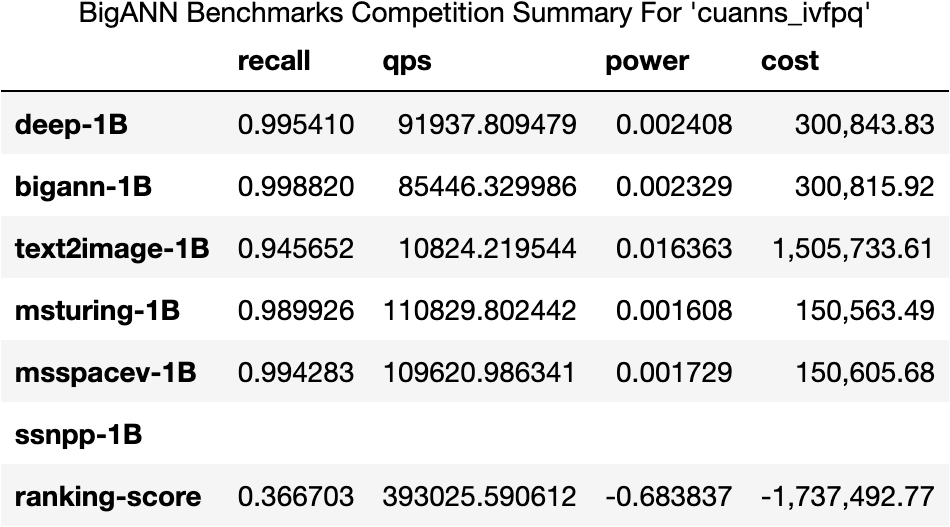
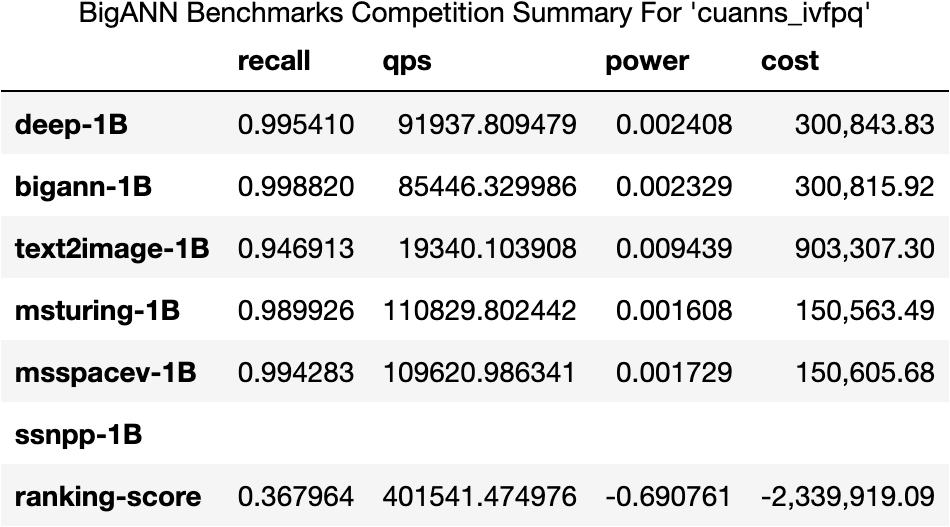
evaled last ivfpq

diff --git a/t3/run_eval.py b/t3/run_eval.py
@@ -110,7 +110,8 @@ SUBM_MAPPING            = \
         # lastlast - "results_dir":  "%s/nvidia/cuanns_ivfpq/results.updated_algos_ivfpq" % COMP_RESULTS_TOPLEVEL,
         # lastlast = "export_fname": "res.updated_algos_ivfpq.csv",
         # last "results_dir":  "%s/nvidia/ivfpq/results_nv_ivfpq_merge_all_and_1" % CACHE_RESULTS_TOPLEVEL,
-        "results_dir":  "%s/nvidia/ivfpq/results_nv_ivfpq_reduce_anomalies_config_stimes_all" % CACHE_RESULTS_TOPLEVEL,
+        # last "results_dir":  "%s/nvidia/ivfpq/results_nv_ivfpq_reduce_anomalies_config_stimes_all" % CACHE_RESULTS_TOPLEVEL,
+        "results_dir" : "%s/nvidia/ivfpq/results_nv_ivfpq_merge__reduce_anomalies_config_stimes_all__last_text2image_config" % CACHE_RESULTS_TOPLEVEL, 
         "export_fname": "public_w_cache_detect.csv",
         "cache_detect": True,
         "anomaly_explain": "https://github.com/harsha-simhadri/big-ann-benchmarks/blob/gw/T3/t3/cuanns_ivfpq/ANOMALIES.md",
@@ -544,8 +545,8 @@ if __name__ == "__main__":
 
     subms = [  "faiss_t3", "optanne_graphann", "gemini", "diskann", "cuanns_multigpu", "cuanns_ivfpq" ]
     #subms = [  "faiss_t3", "optanne_graphann", "gemini", "cuanns_multigpu", "cuanns_ivfpq" ]
-    #subms = [ "cuanns_ivfpq" ]
-    subms = [ "optanne_graphann" ]
+    subms = [ "cuanns_ivfpq" ]
+    #subms = [ "optanne_graphann" ]
 
     # export and/or produce summary and evals json  
     if RE_EXPORT or PROCESS_CSV: 

diff --git a/t3/LEADERBOARDS.md b/t3/LEADERBOARDS.md
@@ -17,9 +17,9 @@ Please note that all rankings are currently unofficial due to the following reas
 |[$MSD_SB]($MSD_RD)  |$MSD_TM    |$MSD_HW   |$MSD_RR  |$MSD_QR  |$MSD_PR  |$MSD_CR |$MSD_S   |$MSD_AC  |$MSD_EV  |$MSD_AL  |$MSD_AN |
 |[$BS_SB]($BS_RD)    |$BS_TM     |$BS_HW    |$BS_RR   |$BS_QR   |$BS_PR   |$BS_CR  |$BS_S    |$BS_AC   |$BS_EV   |$BS_AL   |$BS_AN  |
 |[$GEM_SB]($GEM_RD)  |$GEM_TM    |$GEM_HW   |$GEM_RR  |$GEM_QR  |$GEM_PR  |$GEM_CR |$GEM_S   |$GEM_AC  |$GEM_EV  |$GEM_AL  |$GEM_AN |
-|[$NV2_SB]($NV2_RD)  |$NV2_TM    |$NV2_HW   |$NV2_RR  |$NV2_QR  |$NV2_PR  |$NV2_CR |$NV2_S   |$NV2_AC  |$NV2_EV  |$NV2_AL  |$NV2_AN |
+|[cuanns_ivfpq](https://github.com/harsha-simhadri/big-ann-benchmarks/blob/gw/T3/t3/cuanns_ivfpq/README.md)  |NVidia    |NVidia GPU   |[1](#recall-or-ap-rankings)  |[1](#throughput-rankings)  |[1](#power-rankings)  |[1](#cost-rankings) |final   |[5/50](https://github.com/harsha-simhadri/big-ann-benchmarks/blob/gw/T3/t3/cuanns_ivfpq/ANOMALIES.md)  |George Williams  |[src](https://github.com/harsha-simhadri/big-ann-benchmarks/blob/gw/T3/benchmark/algorithms/cuanns_ivfpq.py)  |[nb](https://github.com/harsha-simhadri/big-ann-benchmarks/blob/gw/T3/t3/eval_2021/cuanns_ivfpq/EvalPublic.ipynb) |
 |[$NV_SB]($NV_RD)    |$NV_TM     |$NV_HW    |$NV_RR   |$NV_QR   |$NV_PR   |$NV_CR  |$NV_S    |$NV_AC   |$NV_EV   |$NV_AL   |$NV_AN  |
-|[optanne_graphann](https://github.com/harsha-simhadri/big-ann-benchmarks/blob/gw/T3/t3/optanne_graphann/README.md)|Intel   |Intel Optane  |[1](#recall-or-ap-rankings) |[1](#throughput-rankings) |[1](#power-rankings) |[1](#cost-rankings)|inprog  |[5/50](https://github.com/harsha-simhadri/big-ann-benchmarks/blob/gw/T3/t3/optanne_graphann/ANOMALIES.md) |George Williams |[src](https://github.com/harsha-simhadri/big-ann-benchmarks/blob/gw/T3/benchmark/algorithms/graphann.py) |[nb](https://github.com/harsha-simhadri/big-ann-benchmarks/blob/gw/T3/t3/eval_2021/optanne_graphann/EvalPublic.ipynb)|
+|[$OPT1_SB]($OPT1_RD)|$OPT1_TM   |$OPT1_HW  |$OPT1_RR |$OPT1_QR |$OPT1_PR |$OPT1_CR|$OPT1_S  |$OPT1_AC |$OPT1_EV |$OPT1_AL |$OPT1_AN|
 
 * Abbreviations used in chart:
   * *org* = submitted by challenge organizer, so subject to competition restrictions
@@ -36,7 +36,7 @@ Please note that all rankings are currently unofficial due to the following reas
 
 |Rank|Submission        |Team   |Hardware|Status |Score      |[Deep1B](#deep1B-recall-rankings)|[BigANN](#bigann-recall-rankings)|[MSTuring](#msturing-recall-rankings)|[MSSpace](#msspace-recall-rankings)|[Text2Image](#text2image-recall-rankings)|[FBSSNet](#fbsimsearchnet-ap-rankings)|
 |----|------------------|-------|--------|-------|-----------|------|------|--------|-------|----------|-------|
-|   1|[optanne_graphann](https://github.com/harsha-simhadri/big-ann-benchmarks/blob/gw/T3/t3/optanne_graphann/README.md)|Intel|Intel Optane |inprog|**0.409**|[0.99882](https://github.com/harsha-simhadri/big-ann-benchmarks/blob/gw/T3/t3/eval_2021/optanne_graphann/deep-1B_recall.png) |[0.99978](https://github.com/harsha-simhadri/big-ann-benchmarks/blob/gw/T3/t3/eval_2021/optanne_graphann/bigann-1B_recall.png) |[0.99568](https://github.com/harsha-simhadri/big-ann-benchmarks/blob/gw/T3/t3/eval_2021/optanne_graphann/msturing-1B_recall.png)   |[0.99835](https://github.com/harsha-simhadri/big-ann-benchmarks/blob/gw/T3/t3/eval_2021/optanne_graphann/msspacev-1B_recall.png)  |[0.97340](https://github.com/harsha-simhadri/big-ann-benchmarks/blob/gw/T3/t3/eval_2021/optanne_graphann/text2image-1B_recall.png)     |-  |
+|   1|[cuanns_ivfpq](https://github.com/harsha-simhadri/big-ann-benchmarks/blob/gw/T3/t3/cuanns_ivfpq/README.md)|NVidia|NVidia GPU |final|**0.368**|[0.99541](https://github.com/harsha-simhadri/big-ann-benchmarks/blob/gw/T3/t3/eval_2021/cuanns_ivfpq/deep-1B_recall.png) |[0.99882](https://github.com/harsha-simhadri/big-ann-benchmarks/blob/gw/T3/t3/eval_2021/cuanns_ivfpq/bigann-1B_recall.png) |[0.98993](https://github.com/harsha-simhadri/big-ann-benchmarks/blob/gw/T3/t3/eval_2021/cuanns_ivfpq/msturing-1B_recall.png)   |[0.99428](https://github.com/harsha-simhadri/big-ann-benchmarks/blob/gw/T3/t3/eval_2021/cuanns_ivfpq/msspacev-1B_recall.png)  |[0.94691](https://github.com/harsha-simhadri/big-ann-benchmarks/blob/gw/T3/t3/eval_2021/cuanns_ivfpq/text2image-1B_recall.png)     |-  |
 |   2|[-](-)|-|- |-|**-**|- |- |-   |-  |-     |-  |
 |   3|[-](-)|-|- |-|**-**|- |- |-   |-  |-     |-  |
 |   4|[-](-)|-|- |-|**-**|- |- |-   |-  |-     |-  |
@@ -54,7 +54,7 @@ Please note that all rankings are currently unofficial due to the following reas
 
 |Rank|Submission        |Team   |Hardware|Status |Score      |[Deep1B](#deep1B-throughput-rankings)|[BigANN](#bigann-throughput-rankings)|[MSTuring](#msturing-throughput-rankings)|[MSSpace](#msspace-throughput-rankings)|[Text2Image](#text2image-throughput-rankings)|[FBSSNet](#fbsimsearchnet-throughput-rankings)|
 |----|------------------|-------|--------|-------|-----------|------|------|--------|-------|----------|--------------|
-|   1|[optanne_graphann](https://github.com/harsha-simhadri/big-ann-benchmarks/blob/gw/T3/t3/optanne_graphann/README.md)|Intel|Intel Optane |inprog|**853256.879**|[196,545.658](https://github.com/harsha-simhadri/big-ann-benchmarks/blob/gw/T3/t3/eval_2021/optanne_graphann/deep-1B_throughput.png) |[335,990.515](https://github.com/harsha-simhadri/big-ann-benchmarks/blob/gw/T3/t3/eval_2021/optanne_graphann/bigann-1B_throughput.png) |[161,463.273](https://github.com/harsha-simhadri/big-ann-benchmarks/blob/gw/T3/t3/eval_2021/optanne_graphann/msturing-1B_throughput.png)   |[157,828.471](https://github.com/harsha-simhadri/big-ann-benchmarks/blob/gw/T3/t3/eval_2021/optanne_graphann/msspacev-1B_throughput.png)  |[17,062.518](https://github.com/harsha-simhadri/big-ann-benchmarks/blob/gw/T3/t3/eval_2021/optanne_graphann/text2image-1B_throughput.png)     |-         |
+|   1|[cuanns_ivfpq](https://github.com/harsha-simhadri/big-ann-benchmarks/blob/gw/T3/t3/cuanns_ivfpq/README.md)|NVidia|NVidia GPU |final|**401541.475**|[91,937.809](https://github.com/harsha-simhadri/big-ann-benchmarks/blob/gw/T3/t3/eval_2021/cuanns_ivfpq/deep-1B_throughput.png) |[85,446.330](https://github.com/harsha-simhadri/big-ann-benchmarks/blob/gw/T3/t3/eval_2021/cuanns_ivfpq/bigann-1B_throughput.png) |[110,829.802](https://github.com/harsha-simhadri/big-ann-benchmarks/blob/gw/T3/t3/eval_2021/cuanns_ivfpq/msturing-1B_throughput.png)   |[109,620.986](https://github.com/harsha-simhadri/big-ann-benchmarks/blob/gw/T3/t3/eval_2021/cuanns_ivfpq/msspacev-1B_throughput.png)  |[19,340.104](https://github.com/harsha-simhadri/big-ann-benchmarks/blob/gw/T3/t3/eval_2021/cuanns_ivfpq/text2image-1B_throughput.png)     |-         |
 |   2|[-](-)|-|- |-|**-**|- |- |-   |-  |-     |-         | 
 |   3|[-](-)|-|- |-|**-**|- |- |-   |-  |-     |-         | 
 |   4|[-](-)|-|- |-|**-**|- |- |-   |-  |-     |-         | 
@@ -72,7 +72,7 @@ Please note that all rankings are currently unofficial due to the following reas
 
 |Rank|Submission        |Team   |Hardware|Status |Score      |[Deep1B](#deep1B-power-rankings)|[BigANN](#bigann-power-rankings)|[MSTuring](#msturing-power-rankings)|[MSSpace](#msspace-power-rankings)|[Text2Image](#text2image-power-rankings)|[FBSSNet](#fbsimsearchnet-power-rankings)|
 |----|------------------|-------|--------|-------|-----------|------|------|--------|-------|-----|-----|
-|   1|[optanne_graphann](https://github.com/harsha-simhadri/big-ann-benchmarks/blob/gw/T3/t3/optanne_graphann/README.md)|Intel|Intel Optane |inprog|**-0.648**|[0.0041](https://github.com/harsha-simhadri/big-ann-benchmarks/blob/gw/T3/t3/eval_2021/optanne_graphann/deep-1B_power.png) |[0.0022](https://github.com/harsha-simhadri/big-ann-benchmarks/blob/gw/T3/t3/eval_2021/optanne_graphann/bigann-1B_power.png) |[0.0048](https://github.com/harsha-simhadri/big-ann-benchmarks/blob/gw/T3/t3/eval_2021/optanne_graphann/msturing-1B_power.png)   |[0.0049](https://github.com/harsha-simhadri/big-ann-benchmarks/blob/gw/T3/t3/eval_2021/optanne_graphann/msspacev-1B_power.png)  |[0.0446](https://github.com/harsha-simhadri/big-ann-benchmarks/blob/gw/T3/t3/eval_2021/optanne_graphann/text2image-1B_power.png)|-|
+|   1|[cuanns_ivfpq](https://github.com/harsha-simhadri/big-ann-benchmarks/blob/gw/T3/t3/cuanns_ivfpq/README.md)|NVidia|NVidia GPU |final|**-0.691**|[0.0024](https://github.com/harsha-simhadri/big-ann-benchmarks/blob/gw/T3/t3/eval_2021/cuanns_ivfpq/deep-1B_power.png) |[0.0023](https://github.com/harsha-simhadri/big-ann-benchmarks/blob/gw/T3/t3/eval_2021/cuanns_ivfpq/bigann-1B_power.png) |[0.0016](https://github.com/harsha-simhadri/big-ann-benchmarks/blob/gw/T3/t3/eval_2021/cuanns_ivfpq/msturing-1B_power.png)   |[0.0017](https://github.com/harsha-simhadri/big-ann-benchmarks/blob/gw/T3/t3/eval_2021/cuanns_ivfpq/msspacev-1B_power.png)  |[0.0094](https://github.com/harsha-simhadri/big-ann-benchmarks/blob/gw/T3/t3/eval_2021/cuanns_ivfpq/text2image-1B_power.png)|-|
 |   2|[-](-)|-|- |-|**-**|- |- |-   |-  |-|-| 
 |   3|[-](-)|-|- |-|**-**|- |- |-   |-  |-|-| 
 |   4|[-](-)|-|- |-|**-**|- |- |-   |-  |-|-| 
@@ -90,7 +90,7 @@ Please note that all rankings are currently unofficial due to the following reas
 
 |Rank|Submission        |Team   |Hardware|Status |Score      |[Deep1B](#deep1B-cost-rankings)|[BigANN](#bigann-cost-rankings)|[MSTuring](#msturing-cost-rankings)|[MSSpace](#msspace-cost-rankings)|[Text2Image](#text2image-cost-rankings)|[FBSSNet](#fbsimsearchnet-cost-rankings)|
 |----|------------------|-------|--------|-------|-----------|------|------|--------|-------|----------|--------------|
-|   1|[optanne_graphann](https://github.com/harsha-simhadri/big-ann-benchmarks/blob/gw/T3/t3/optanne_graphann/README.md)|Intel|Intel Optane |inprog|**$-3,978,198.83**|$16,086.82 |$15,439.92 |$16,347.45   |$16,382.81  |$103,599.49     |-         |
+|   1|[cuanns_ivfpq](https://github.com/harsha-simhadri/big-ann-benchmarks/blob/gw/T3/t3/cuanns_ivfpq/README.md)|NVidia|NVidia GPU |final|**$-2,339,919.09**|$300,843.83 |$300,815.92 |$150,563.49   |$150,605.68  |$903,307.30     |-         |
 |   2|[-](-)|-|- |-|**-**|- |- |-   |-  |-     |-         |
 |   3|[-](-)|-|- |-|**-**|- |- |-   |-  |-     |-         |
 |   4|[-](-)|-|- |-|**-**|- |- |-   |-  |-     |-         |
@@ -112,7 +112,7 @@ Please note that all rankings are currently unofficial due to the following reas
 
 |Rank|Submission                                             |Team                          |Hardware               |Status  |R@10       |
 |----|-------------------------------------------------------|------------------------------|-----------------------|--------|-----------|
-|   1|[optanne_graphann](https://github.com/harsha-simhadri/big-ann-benchmarks/blob/gw/T3/t3/optanne_graphann/README.md)                                   |Intel                      |Intel Optane               |inprog|**[0.99882](https://github.com/harsha-simhadri/big-ann-benchmarks/blob/gw/T3/t3/eval_2021/optanne_graphann/deep-1B_recall.png)**|       
+|   1|[cuanns_ivfpq](https://github.com/harsha-simhadri/big-ann-benchmarks/blob/gw/T3/t3/cuanns_ivfpq/README.md)                                   |NVidia                      |NVidia GPU               |final|**[0.99541](https://github.com/harsha-simhadri/big-ann-benchmarks/blob/gw/T3/t3/eval_2021/cuanns_ivfpq/deep-1B_recall.png)**|       
 |   2|[-](-)                                   |-                      |-               |-|**-**|       
 |   3|[-](-)                                   |-                      |-               |-|**-**|       
 |   4|[-](-)                                   |-                      |-               |-|**-**|       
@@ -129,7 +129,7 @@ Please note that all rankings are currently unofficial due to the following reas
 
 |Rank|Submission                                             |Team                          |Hardware               |Status  |Q/S        |
 |----|-------------------------------------------------------|------------------------------|-----------------------|--------|-----------|
-|   1|[optanne_graphann](https://github.com/harsha-simhadri/big-ann-benchmarks/blob/gw/T3/t3/optanne_graphann/README.md)                                   |Intel                      |Intel Optane               |inprog|**[196,545.658](https://github.com/harsha-simhadri/big-ann-benchmarks/blob/gw/T3/t3/eval_2021/optanne_graphann/deep-1B_throughput.png)**|
+|   1|[cuanns_ivfpq](https://github.com/harsha-simhadri/big-ann-benchmarks/blob/gw/T3/t3/cuanns_ivfpq/README.md)                                   |NVidia                      |NVidia GPU               |final|**[91,937.809](https://github.com/harsha-simhadri/big-ann-benchmarks/blob/gw/T3/t3/eval_2021/cuanns_ivfpq/deep-1B_throughput.png)**|
 |   2|[-](-)                                   |-                      |-               |-|**-**|
 |   3|[-](-)                                   |-                      |-               |-|**-**|
 |   4|[-](-)                                   |-                      |-               |-|**-**|
@@ -146,7 +146,7 @@ Please note that all rankings are currently unofficial due to the following reas
 
 |Rank|Submission                                             |Team                          |Hardware               |Status  |W*S/Q      |
 |----|-------------------------------------------------------|------------------------------|-----------------------|--------|-----------|
-|   1|[optanne_graphann](https://github.com/harsha-simhadri/big-ann-benchmarks/blob/gw/T3/t3/optanne_graphann/README.md)                                   |Intel                      |Intel Optane               |inprog|**[0.0041](https://github.com/harsha-simhadri/big-ann-benchmarks/blob/gw/T3/t3/eval_2021/optanne_graphann/deep-1B_power.png)**|
+|   1|[cuanns_ivfpq](https://github.com/harsha-simhadri/big-ann-benchmarks/blob/gw/T3/t3/cuanns_ivfpq/README.md)                                   |NVidia                      |NVidia GPU               |final|**[0.0024](https://github.com/harsha-simhadri/big-ann-benchmarks/blob/gw/T3/t3/eval_2021/cuanns_ivfpq/deep-1B_power.png)**|
 |   2|[-](-)                                   |-                      |-               |-|**-**|
 |   3|[-](-)                                   |-                      |-               |-|**-**|
 |   4|[-](-)                                   |-                      |-               |-|**-**|
@@ -163,7 +163,7 @@ Please note that all rankings are currently unofficial due to the following reas
 
 |Rank|Submission          |Team     |Hardware               |Status  |Cost         |capex   |opex    |unit cost|units@100K qps|KwH*4yrs |
 |----|--------------------|---------|-----------------------|--------|-------------|--------|--------|---------|--------------|---------|
-|   1|[optanne_graphann](https://github.com/harsha-simhadri/big-ann-benchmarks/blob/gw/T3/t3/optanne_graphann/README.md)|Intel |Intel Optane               |inprog|**$16,086.82**  |$14,664.20|$1,422.62|$14,664.20 |1      |14,226.208|
+|   1|[cuanns_ivfpq](https://github.com/harsha-simhadri/big-ann-benchmarks/blob/gw/T3/t3/cuanns_ivfpq/README.md)|NVidia |NVidia GPU               |final|**$300,843.83**  |$300,000.00|$843.83|$150,000.00 |2      |8,438.315|
 |   2|[-](-)|- |-               |-|**-**  |-|-|- |-      |-|
 |   3|[-](-)|- |-               |-|**-**  |-|-|- |-      |-|
 |   4|[-](-)|- |-               |-|**-**  |-|-|- |-      |-|
@@ -188,7 +188,7 @@ Please note that all rankings are currently unofficial due to the following reas
 
 |Rank|Submission                                             |Team                          |Hardware               |Status  |R@10         |
 |----|-------------------------------------------------------|------------------------------|-----------------------|--------|-------------|
-|   1|[optanne_graphann](https://github.com/harsha-simhadri/big-ann-benchmarks/blob/gw/T3/t3/optanne_graphann/README.md)                                   |Intel                      |Intel Optane               |inprog|**[0.99978](https://github.com/harsha-simhadri/big-ann-benchmarks/blob/gw/T3/t3/eval_2021/optanne_graphann/bigann-1B_recall.png)**  |
+|   1|[cuanns_ivfpq](https://github.com/harsha-simhadri/big-ann-benchmarks/blob/gw/T3/t3/cuanns_ivfpq/README.md)                                   |NVidia                      |NVidia GPU               |final|**[0.99882](https://github.com/harsha-simhadri/big-ann-benchmarks/blob/gw/T3/t3/eval_2021/cuanns_ivfpq/bigann-1B_recall.png)**  |
 |   2|[-](-)                                   |-                      |-               |-|**-**  |
 |   3|[-](-)                                   |-                      |-               |-|**-**  |
 |   4|[-](-)                                   |-                      |-               |-|**-**  |
@@ -205,7 +205,7 @@ Please note that all rankings are currently unofficial due to the following reas
 
 |Rank|Submission                                             |Team                          |Hardware               |Status  |Q/S          |
 |----|-------------------------------------------------------|------------------------------|-----------------------|--------|-------------|
-|   1|[optanne_graphann](https://github.com/harsha-simhadri/big-ann-benchmarks/blob/gw/T3/t3/optanne_graphann/README.md)                                   |Intel                      |Intel Optane               |inprog|**[335,990.515](https://github.com/harsha-simhadri/big-ann-benchmarks/blob/gw/T3/t3/eval_2021/optanne_graphann/bigann-1B_throughput.png)**  |
+|   1|[cuanns_ivfpq](https://github.com/harsha-simhadri/big-ann-benchmarks/blob/gw/T3/t3/cuanns_ivfpq/README.md)                                   |NVidia                      |NVidia GPU               |final|**[85,446.330](https://github.com/harsha-simhadri/big-ann-benchmarks/blob/gw/T3/t3/eval_2021/cuanns_ivfpq/bigann-1B_throughput.png)**  |
 |   2|[-](-)                                   |-                      |-               |-|**-**  |
 |   3|[-](-)                                   |-                      |-               |-|**-**  |
 |   4|[-](-)                                   |-                      |-               |-|**-**  |
@@ -222,7 +222,7 @@ Please note that all rankings are currently unofficial due to the following reas
 
 |Rank|Submission                                             |Team                          |Hardware               |Status  |W*S/Q      |
 |----|-------------------------------------------------------|------------------------------|-----------------------|--------|-----------|
-|   1|[optanne_graphann](https://github.com/harsha-simhadri/big-ann-benchmarks/blob/gw/T3/t3/optanne_graphann/README.md)                                   |Intel                      |Intel Optane               |inprog|**[0.0022](https://github.com/harsha-simhadri/big-ann-benchmarks/blob/gw/T3/t3/eval_2021/optanne_graphann/bigann-1B_power.png)**|       
+|   1|[cuanns_ivfpq](https://github.com/harsha-simhadri/big-ann-benchmarks/blob/gw/T3/t3/cuanns_ivfpq/README.md)                                   |NVidia                      |NVidia GPU               |final|**[0.0023](https://github.com/harsha-simhadri/big-ann-benchmarks/blob/gw/T3/t3/eval_2021/cuanns_ivfpq/bigann-1B_power.png)**|       
 |   2|[-](-)                                   |-                      |-               |-|**-**|       
 |   3|[-](-)                                   |-                      |-               |-|**-**|      
 |   4|[-](-)                                   |-                      |-               |-|**-**|      
@@ -239,7 +239,7 @@ Please note that all rankings are currently unofficial due to the following reas
 
 |Rank|Submission          |Team                          |Hardware            |Status  |Cost          |capex   |opex    |unit cost|units@100K qps|KwH*4yrs |
 |----|--------------------|------------------------------|--------------------|--------|--------------|--------|--------|---------|--------------|---------|
-|   1|[optanne_graphann](https://github.com/harsha-simhadri/big-ann-benchmarks/blob/gw/T3/t3/optanne_graphann/README.md)|Intel                      |Intel Optane            |inprog|**$15,439.92**   |$14,664.20|$775.72|$14,664.20 |1      |7,757.221|
+|   1|[cuanns_ivfpq](https://github.com/harsha-simhadri/big-ann-benchmarks/blob/gw/T3/t3/cuanns_ivfpq/README.md)|NVidia                      |NVidia GPU            |final|**$300,815.92**   |$300,000.00|$815.92|$150,000.00 |2      |8,159.226|
 |   2|[-](-)|-                      |-            |-|**-**   |-|-|- |-      |-|      
 |   3|[-](-)|-                      |-            |-|**-**   |-|-|- |-      |-|  
 |   4|[-](-)|-                      |-            |-|**-**   |-|-|- |-      |-|  
@@ -264,7 +264,7 @@ Please note that all rankings are currently unofficial due to the following reas
 
 |Rank|Submission                                             |Team                          |Hardware               |Status  |R@10           |
 |----|-------------------------------------------------------|------------------------------|-----------------------|--------|---------------|
-|   1|[optanne_graphann](https://github.com/harsha-simhadri/big-ann-benchmarks/blob/gw/T3/t3/optanne_graphann/README.md)                                   |Intel                      |Intel Optane               |inprog|**[0.99568](https://github.com/harsha-simhadri/big-ann-benchmarks/blob/gw/T3/t3/eval_2021/optanne_graphann/msturing-1B_recall.png)**    |
+|   1|[cuanns_ivfpq](https://github.com/harsha-simhadri/big-ann-benchmarks/blob/gw/T3/t3/cuanns_ivfpq/README.md)                                   |NVidia                      |NVidia GPU               |final|**[0.98993](https://github.com/harsha-simhadri/big-ann-benchmarks/blob/gw/T3/t3/eval_2021/cuanns_ivfpq/msturing-1B_recall.png)**    |
 |   2|[-](-)                                   |-                      |-               |-|**-**    |
 |   3|[-](-)                                   |-                      |-               |-|**-**    |
 |   4|[-](-)                                   |-                      |-               |-|**-**    |
@@ -281,7 +281,7 @@ Please note that all rankings are currently unofficial due to the following reas
 
 |Rank|Submission                                             |Team                          |Hardware               |Status  |Q/S         |
 |----|-------------------------------------------------------|------------------------------|-----------------------|--------|------------|
-|   1|[optanne_graphann](https://github.com/harsha-simhadri/big-ann-benchmarks/blob/gw/T3/t3/optanne_graphann/README.md)                                   |Intel                      |Intel Optane               |inprog|**[161,463.273](https://github.com/harsha-simhadri/big-ann-benchmarks/blob/gw/T3/t3/eval_2021/optanne_graphann/msturing-1B_throughput.png)** |
+|   1|[cuanns_ivfpq](https://github.com/harsha-simhadri/big-ann-benchmarks/blob/gw/T3/t3/cuanns_ivfpq/README.md)                                   |NVidia                      |NVidia GPU               |final|**[110,829.802](https://github.com/harsha-simhadri/big-ann-benchmarks/blob/gw/T3/t3/eval_2021/cuanns_ivfpq/msturing-1B_throughput.png)** |
 |   2|[-](-)                                   |-                      |-               |-|**-** |
 |   3|[-](-)                                   |-                      |-               |-|**-** |
 |   4|[-](-)                                   |-                      |-               |-|**-** |
@@ -298,7 +298,7 @@ Please note that all rankings are currently unofficial due to the following reas
 
 |Rank|Submission                                             |Team                          |Hardware               |Status|W*S/Q         |
 |----|-------------------------------------------------------|------------------------------|-----------------------|------|--------------|
-|   1|[optanne_graphann](https://github.com/harsha-simhadri/big-ann-benchmarks/blob/gw/T3/t3/optanne_graphann/README.md)                                   |Intel                      |Intel Optane               |inprog|**[0.0048](https://github.com/harsha-simhadri/big-ann-benchmarks/blob/gw/T3/t3/eval_2021/optanne_graphann/msturing-1B_power.png)** |
+|   1|[cuanns_ivfpq](https://github.com/harsha-simhadri/big-ann-benchmarks/blob/gw/T3/t3/cuanns_ivfpq/README.md)                                   |NVidia                      |NVidia GPU               |final|**[0.0016](https://github.com/harsha-simhadri/big-ann-benchmarks/blob/gw/T3/t3/eval_2021/cuanns_ivfpq/msturing-1B_power.png)** |
 |   2|[-](-)                                   |-                      |-               |-|**-** |
 |   3|[-](-)                                   |-                      |-               |-|**-** |
 |   4|[-](-)                                   |-                      |-               |-|**-** |
@@ -315,7 +315,7 @@ Please note that all rankings are currently unofficial due to the following reas
 
 |Rank|Submission                          |Team                          |Hardware               |Status  |Cost          |capex   |opex    |unit cost|units@100K qps|KwH*4yrs  |
 |----|------------------------------------|------------------------------|-----------------------|--------|--------------|--------|--------|---------|--------------|----------|
-|   1|[optanne_graphann](https://github.com/harsha-simhadri/big-ann-benchmarks/blob/gw/T3/t3/optanne_graphann/README.md)                |Intel                      |Intel Optane               |inprog|**$16,347.45**   |$14,664.20|$1,683.25|$14,664.20 |1      |16,832.451 |
+|   1|[cuanns_ivfpq](https://github.com/harsha-simhadri/big-ann-benchmarks/blob/gw/T3/t3/cuanns_ivfpq/README.md)                |NVidia                      |NVidia GPU               |final|**$150,563.49**   |$150,000.00|$563.49|$150,000.00 |1      |5,634.885 |
 |   2|[-](-)                |-                      |-               |-|**-**   |-|-|- |-      |- |         
 |   3|[-](-)                |-                      |-               |-|**-**   |-|-|- |-      |- |       
 |   4|[-](-)                |-                      |-               |-|**-**   |-|-|- |-      |- |       
@@ -340,7 +340,7 @@ Please note that all rankings are currently unofficial due to the following reas
 
 |Rank|Submission                                             |Team                          |Hardware               |Status  |R@10     |
 |----|-------------------------------------------------------|------------------------------|-----------------------|--------|---------|
-|   1|[optanne_graphann](https://github.com/harsha-simhadri/big-ann-benchmarks/blob/gw/T3/t3/optanne_graphann/README.md)                                   |Intel                      |Intel Optane               |inprog|**[0.0049](https://github.com/harsha-simhadri/big-ann-benchmarks/blob/gw/T3/t3/eval_2021/optanne_graphann/msspacev-1B_power.png)** |
+|   1|[cuanns_ivfpq](https://github.com/harsha-simhadri/big-ann-benchmarks/blob/gw/T3/t3/cuanns_ivfpq/README.md)                                   |NVidia                      |NVidia GPU               |final|**[0.0017](https://github.com/harsha-simhadri/big-ann-benchmarks/blob/gw/T3/t3/eval_2021/cuanns_ivfpq/msspacev-1B_power.png)** |
 |   2|[-](-)                                   |-                      |-               |-|**-** |
 |   3|[-](-)                                   |-                      |-               |-|**-** |
 |   4|[-](-)                                   |-                      |-               |-|**-** |
@@ -357,7 +357,7 @@ Please note that all rankings are currently unofficial due to the following reas
 
 |Rank|Submission                                             |Team                          |Hardware               |Status  |Q/S         |
 |----|-------------------------------------------------------|------------------------------|-----------------------|--------|------------|
-|   1|[optanne_graphann](https://github.com/harsha-simhadri/big-ann-benchmarks/blob/gw/T3/t3/optanne_graphann/README.md)                                   |Intel                      |Intel Optane               |inprog|**[157,828.471](https://github.com/harsha-simhadri/big-ann-benchmarks/blob/gw/T3/t3/eval_2021/optanne_graphann/msspacev-1B_throughput.png)** |
+|   1|[cuanns_ivfpq](https://github.com/harsha-simhadri/big-ann-benchmarks/blob/gw/T3/t3/cuanns_ivfpq/README.md)                                   |NVidia                      |NVidia GPU               |final|**[109,620.986](https://github.com/harsha-simhadri/big-ann-benchmarks/blob/gw/T3/t3/eval_2021/cuanns_ivfpq/msspacev-1B_throughput.png)** |
 |   2|[-](-)                                   |-                      |-               |-|**-** |
 |   3|[-](-)                                   |-                      |-               |-|**-** |
 |   4|[-](-)                                   |-                      |-               |-|**-** |
@@ -374,7 +374,7 @@ Please note that all rankings are currently unofficial due to the following reas
 
 |Rank|Submission                                             |Team                          |Hardware               |Status  |W*S/Q       |
 |----|-------------------------------------------------------|------------------------------|-----------------------|--------|------------|
-|   1|[optanne_graphann](https://github.com/harsha-simhadri/big-ann-benchmarks/blob/gw/T3/t3/optanne_graphann/README.md)                                   |Intel                      |Intel Optane               |inprog|**[0.0049](https://github.com/harsha-simhadri/big-ann-benchmarks/blob/gw/T3/t3/eval_2021/optanne_graphann/msspacev-1B_power.png)** |
+|   1|[cuanns_ivfpq](https://github.com/harsha-simhadri/big-ann-benchmarks/blob/gw/T3/t3/cuanns_ivfpq/README.md)                                   |NVidia                      |NVidia GPU               |final|**[0.0017](https://github.com/harsha-simhadri/big-ann-benchmarks/blob/gw/T3/t3/eval_2021/cuanns_ivfpq/msspacev-1B_power.png)** |
 |   2|[-](-)                                   |-                      |-               |-|**-** |
 |   3|[-](-)                                   |-                      |-               |-|**-** |
 |   4|[-](-)                                   |-                      |-               |-|**-** |
@@ -391,7 +391,7 @@ Please note that all rankings are currently unofficial due to the following reas
 
 |Rank|Submission          |Team                          |Hardware               |Status  |Cost          |capex   |opex    |unit cost|units@100K qps|KwH*4yrs  |
 |----|--------------------|------------------------------|-----------------------|------- |--------------|--------|--------|---------|--------------|----------|
-|   1|[optanne_graphann](https://github.com/harsha-simhadri/big-ann-benchmarks/blob/gw/T3/t3/optanne_graphann/README.md)|Intel                      |Intel Optane               |inprog|**$16,382.81**   |$14,664.20|$1,718.61|$14,664.20 |1      |17,186.056 |
+|   1|[cuanns_ivfpq](https://github.com/harsha-simhadri/big-ann-benchmarks/blob/gw/T3/t3/cuanns_ivfpq/README.md)|NVidia                      |NVidia GPU               |final|**$150,605.68**   |$150,000.00|$605.68|$150,000.00 |1      |6,056.841 |
 |   2|[-](-)|-                      |-               |-|**-**   |-|-|- |-      |- |
 |   3|[-](-)|-                      |-               |-|**-**   |-|-|- |-      |- |
 |   4|[-](-)|-                      |-               |-|**-**   |-|-|- |-      |- |
@@ -416,7 +416,7 @@ Please note that all rankings are currently unofficial due to the following reas
 
 |Rank|Submission                                             |Team                          |Hardware               |Status  |R@10         |
 |----|-------------------------------------------------------|------------------------------|-----------------------|--------|-------------|
-|   1|[optanne_graphann](https://github.com/harsha-simhadri/big-ann-benchmarks/blob/gw/T3/t3/optanne_graphann/README.md)                                   |Intel                      |Intel Optane               |inprog|**[0.97340](https://github.com/harsha-simhadri/big-ann-benchmarks/blob/gw/T3/t3/eval_2021/optanne_graphann/text2image-1B_recall.png)**  |
+|   1|[cuanns_ivfpq](https://github.com/harsha-simhadri/big-ann-benchmarks/blob/gw/T3/t3/cuanns_ivfpq/README.md)                                   |NVidia                      |NVidia GPU               |final|**[0.94691](https://github.com/harsha-simhadri/big-ann-benchmarks/blob/gw/T3/t3/eval_2021/cuanns_ivfpq/text2image-1B_recall.png)**  |
 |   2|[-](-)                                   |-                      |-               |-|**-**  |
 |   3|[-](-)                                   |-                      |-               |-|**-**  |
 |   4|[-](-)                                   |-                      |-               |-|**-**  |
@@ -433,7 +433,7 @@ Please note that all rankings are currently unofficial due to the following reas
 
 |Rank|Submission                                             |Team                          |Hardware               |Status  |Q/S         |
 |----|-------------------------------------------------------|------------------------------|-----------------------|--------|------------|
-|   1|[optanne_graphann](https://github.com/harsha-simhadri/big-ann-benchmarks/blob/gw/T3/t3/optanne_graphann/README.md)                                   |Intel                      |Intel Optane               |inprog|**[17,062.518](https://github.com/harsha-simhadri/big-ann-benchmarks/blob/gw/T3/t3/eval_2021/optanne_graphann/text2image-1B_throughput.png)** |
+|   1|[cuanns_ivfpq](https://github.com/harsha-simhadri/big-ann-benchmarks/blob/gw/T3/t3/cuanns_ivfpq/README.md)                                   |NVidia                      |NVidia GPU               |final|**[19,340.104](https://github.com/harsha-simhadri/big-ann-benchmarks/blob/gw/T3/t3/eval_2021/cuanns_ivfpq/text2image-1B_throughput.png)** |
 |   2|[-](-)                                   |-                      |-               |-|**-** |
 |   3|[-](-)                                   |-                      |-               |-|**-** |
 |   4|[-](-)                                   |-                      |-               |-|**-** |
@@ -450,7 +450,7 @@ Please note that all rankings are currently unofficial due to the following reas
 
 |Rank|Submission                                             |Team                          |Hardware               |Status  |W*S/Q      |
 |----|-------------------------------------------------------|------------------------------|-----------------------|--------|-----------|
-|   1|[optanne_graphann](https://github.com/harsha-simhadri/big-ann-benchmarks/blob/gw/T3/t3/optanne_graphann/README.md)                                   |Intel                      |Intel Optane               |inprog|**[0.0446](https://github.com/harsha-simhadri/big-ann-benchmarks/blob/gw/T3/t3/eval_2021/optanne_graphann/text2image-1B_power.png)**|
+|   1|[cuanns_ivfpq](https://github.com/harsha-simhadri/big-ann-benchmarks/blob/gw/T3/t3/cuanns_ivfpq/README.md)                                   |NVidia                      |NVidia GPU               |final|**[0.0094](https://github.com/harsha-simhadri/big-ann-benchmarks/blob/gw/T3/t3/eval_2021/cuanns_ivfpq/text2image-1B_power.png)**|
 |   2|[-](-)                                   |-                      |-               |-|**-**|
 |   3|[-](-)                                   |-                      |-               |-|**-**|
 |   4|[-](-)                                   |-                      |-               |-|**-**|
@@ -467,7 +467,7 @@ Please note that all rankings are currently unofficial due to the following reas
 
 |Rank|Submission           |Team                          |Hardware             |Status  |Cost          |capex   |opex    |unit cost|units@100K qps|KwH*4yrs |
 |----|---------------------|------------------------------|---------------------|--------|--------------|--------|--------|---------|--------------|---------|
-|   1|[optanne_graphann](https://github.com/harsha-simhadri/big-ann-benchmarks/blob/gw/T3/t3/optanne_graphann/README.md) |Intel                      |Intel Optane             |inprog|**$103,599.49**   |$87,985.20|$15,614.29|$14,664.20 |6      |156,142.873|
+|   1|[cuanns_ivfpq](https://github.com/harsha-simhadri/big-ann-benchmarks/blob/gw/T3/t3/cuanns_ivfpq/README.md) |NVidia                      |NVidia GPU             |final|**$903,307.30**   |$900,000.00|$3,307.30|$150,000.00 |6      |33,072.963|
 |   2|[-](-) |-                      |-             |-|**-**   |-|-|- |-      |-| 
 |   3|[-](-) |-                      |-             |-|**-**   |-|-|- |-      |-| 
 |   4|[-](-) |-                      |-             |-|**-**   |-|-|- |-      |-| 
